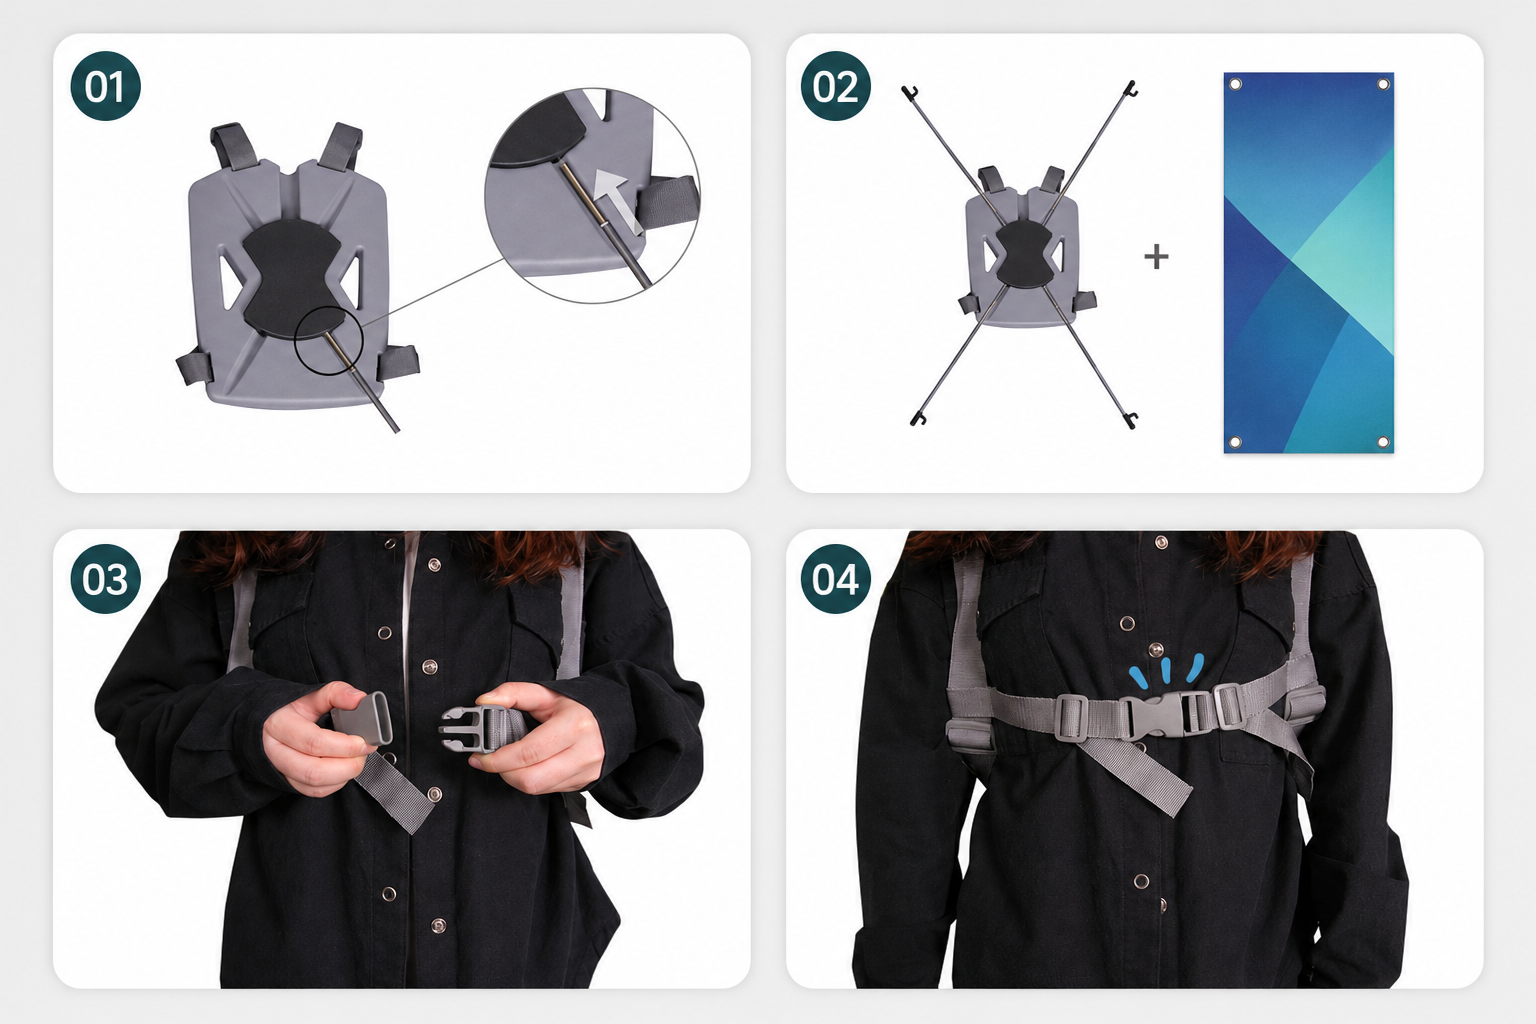
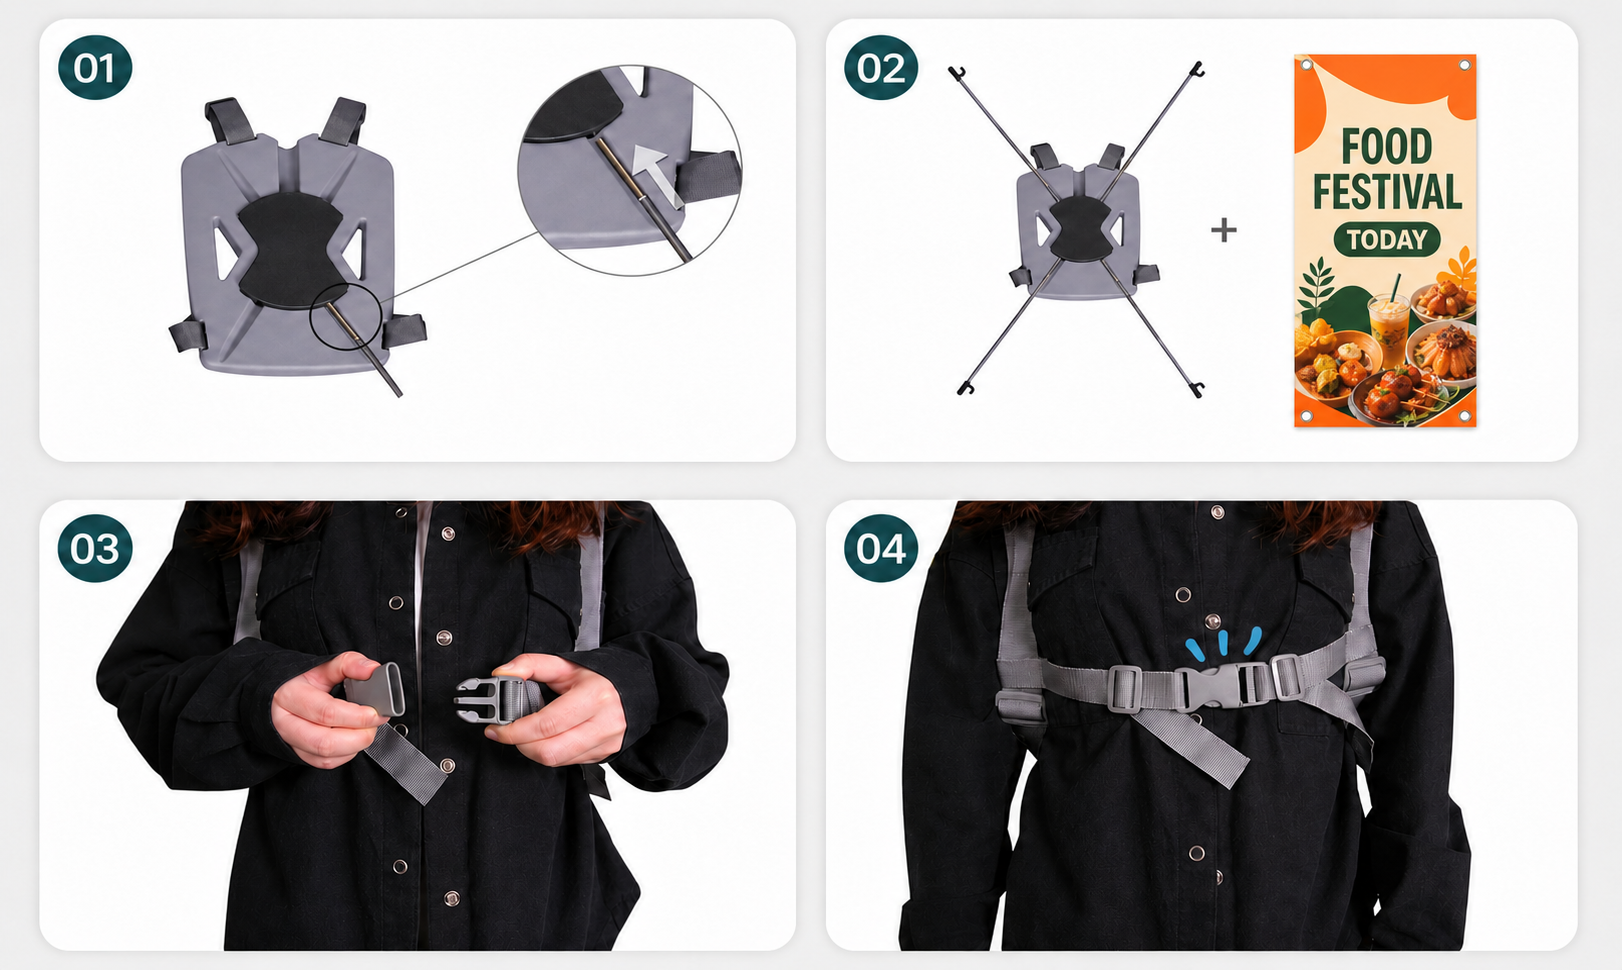
워킹배너 메인 및 설치 이미지 수정

diff --git a/detail/walkingbanner.html b/detail/walkingbanner.html
@@ -4,7 +4,7 @@
       <div style="display:inline-block;margin-bottom:18px;padding:7px 15px;border-radius:30px;background:#dff4f5;color:#007f90;font-size:14px;font-weight:800;letter-spacing:1px;">MOBILE DISPLAY</div>
       <h1 style="margin:0;font-size:clamp(38px,6vw,68px);line-height:1.12;font-weight:800;letter-spacing:-2px;color:#172630;">워킹배너</h1>
       <p style="margin:20px auto 34px;max-width:760px;font-size:clamp(17px,2.2vw,23px);line-height:1.65;color:#5d6d75;">배낭처럼 착용해 이동하면서 홍보하는<br>가볍고 시인성이 뛰어난 이동형 배너</p>
-      <img src="https://tara-shopping.vercel.app/images/walkingbanner-main.png?v=1" alt="워킹배너 착용 모습" style="display:block;width:100%;max-width:980px;height:auto;margin:0 auto;">
+      <img src="https://tara-shopping.vercel.app/images/walkingbanner-main.png?v=3" alt="야외 음식축제 현장에서 워킹배너를 착용한 홍보 모습" style="display:block;width:100%;max-width:980px;height:auto;margin:0 auto;">
     </section>
 
     <section style="padding:72px 5%;background:#123b43;color:#ffffff;">
@@ -19,7 +19,7 @@
       <div style="font-size:14px;font-weight:800;letter-spacing:.16em;color:#0097a9;">ASSEMBLY &amp; WEARING</div>
       <h2 style="margin:10px 0 18px;font-size:clamp(28px,4vw,42px);letter-spacing:-1.3px;">설치 및 착용 방법</h2>
       <p style="margin:0 auto 40px;max-width:760px;color:#69777e;font-size:17px;line-height:1.75;">FRP 봉과 출력물을 조립한 뒤 어깨끈과 가슴 벨트를 몸에 맞게 조절합니다.</p>
-      <img src="https://tara-shopping.vercel.app/images/walkingbanner-install.png?v=1" alt="워킹배너 조립과 착용 순서" style="display:block;width:100%;max-width:1100px;height:auto;margin:0 auto 40px;">
+      <img src="https://tara-shopping.vercel.app/images/walkingbanner-install.png?v=3" alt="음식축제 배너를 결합하는 워킹배너 조립과 착용 순서" style="display:block;width:100%;max-width:1100px;height:auto;margin:0 auto 40px;">
       <div style="display:flex;flex-wrap:wrap;gap:14px;text-align:left;">
         <div style="box-sizing:border-box;flex:1 1 240px;padding:23px;border:1px solid #e1e6e8;border-radius:14px;background:#ffffff;"><b style="color:#008fa0;">01</b><p style="margin:9px 0 0;line-height:1.65;">본체의 네 구멍에 FRP 봉을 끝까지 끼웁니다.</p></div>
         <div style="box-sizing:border-box;flex:1 1 240px;padding:23px;border:1px solid #e1e6e8;border-radius:14px;background:#ffffff;"><b style="color:#008fa0;">02</b><p style="margin:9px 0 0;line-height:1.65;">네 모서리 고리에 출력물을 연결합니다.</p></div>
